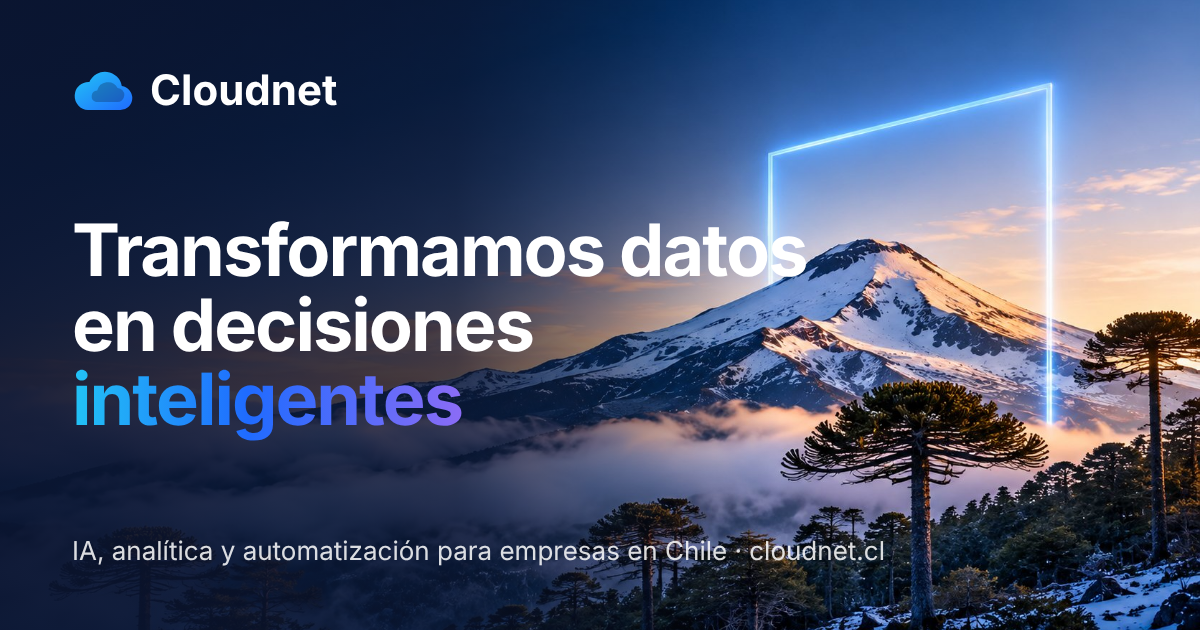
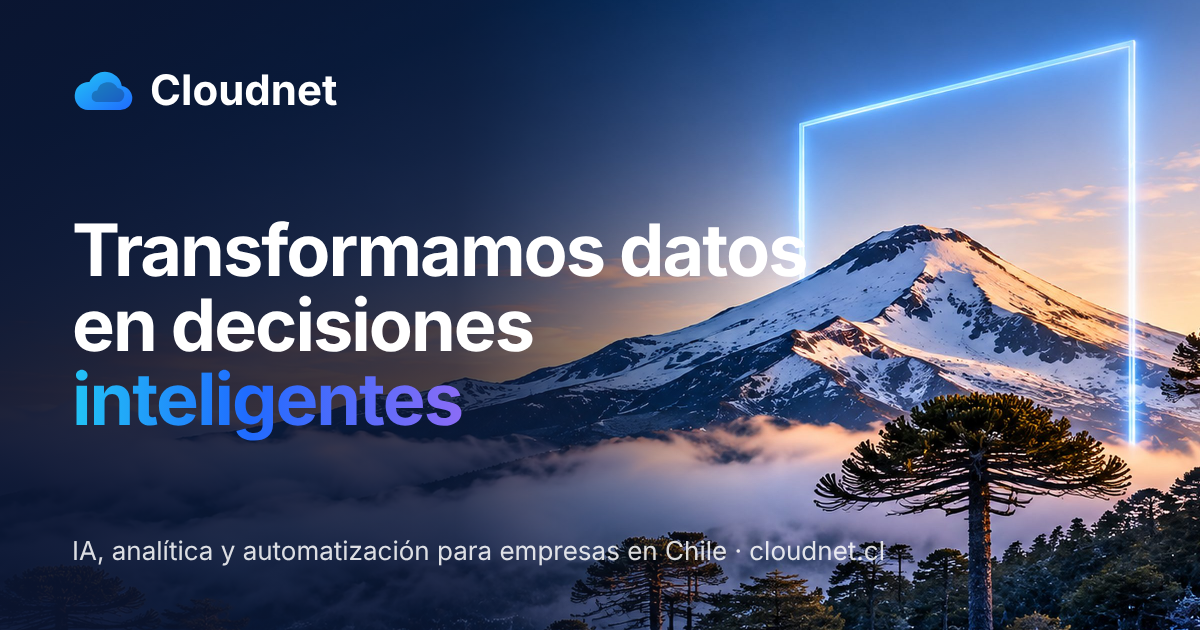
Imagen del Lonquimay en alta resolución y versión liviana para móvil
Claude-Session: https://claude.ai/code/session_01VHTmumsf52HDxTf7CSq2H2

diff --git a/styles.css b/styles.css
@@ -209,7 +209,7 @@ a { color: var(--azul); }
   .hero-art {
     display: block; position: relative; margin-top: 2.25rem; height: clamp(220px, 52vw, 380px);
     border-radius: 20px; overflow: hidden;
-    background: url("hero-lonquimay.jpg") 72% 45% / cover no-repeat;
+    background: url("hero-lonquimay-m.jpg") 75% 45% / cover no-repeat;
     box-shadow: 0 0 0 1px rgb(255 255 255 / .1), 0 24px 48px -20px rgb(0 0 0 / .7);
   }
   .hero-art::after {
